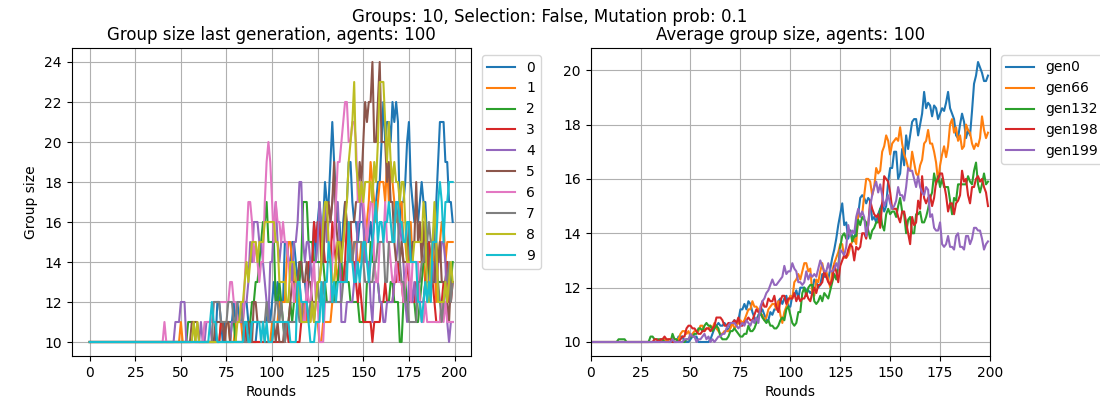
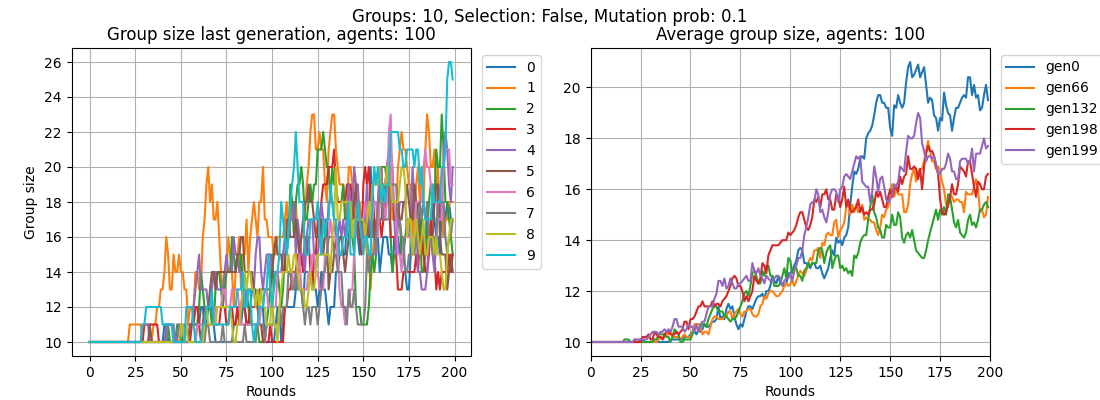
finalised simulation V1, new folder for sim_v2

diff --git a/Sim_V1/__main__.py b/Sim_V1/__main__.py
@@ -1,69 +1,103 @@
 # this is the main python code which you should run from terminal
 
 ##TODO
-# - 5% geen kinderen —> is na reproduce elke groep nog gevuld?
 # - Maximaal aantal groepen voor 1 agent 
 
 import argparse
 
 from Agent import Agent
-from helpers import select_fittest, reproduce
+from helpers import select_fittest, reproduce, split_to_groups
 
 import numpy as np
 import random
 
 from matplotlib import pyplot as plt
 
-SELECTION = True
+SELECTION = False
 GROUP_REJECTION = .2
 MUTATION_PROB = .1
 
 def socialize(social_agent, out_group, population):
     # print()
-    # print(f"{social_agent.name} wants to be prosocial, group: {social_agent.groups[0]}")
+    # print(f"{social_agent.name} wants to be outgroup social and belongs to group: {social_agent.groups[0]}")
 
-    
     if out_group:
         #-- the other agents can not be in any of the groups that the social agent is part of. 
+
+        social_agent.social_preference = 2 #-- out group preference
 
         #-- groups agent 1= [1,2]      agent 2= [3, 5, 2]      agent 3= [3,4,5]
         other_agents = [agent for agent in population if not any(group_number in agent.groups for group_number in social_agent.groups) and agent.available]
         # print(f'others: {[(a.name, a.groups) for a in other_agents]}')
+        
         if other_agents:
             #-- there must be some agents out group before you can socialize with them 
             other = random.choice(other_agents)    
             
-            # print(f"out group socializing agent {social_agent.name} with {other.name} from group: {other.groups[0]}")
+            # print(f"out group socializing agent: {social_agent.name} with agent: {other.name} from group: {other.groups[0]}")
 
-            social_agent.available = False
-            other.available = False
+            if random.uniform(0,1) < other.pro_social or other.social_preference == 2:
+                #-- the other agent also wants to socialize out group
 
-            #-- here agent.groups[0] is the first element of the groups where agent belongs to. Index 0 is the group which it is born into. 
-            social_agent.history[other.groups[0]] = social_agent.history[other.groups[0]] + 1 if other.groups[0] in social_agent.history else 1
-            other.history[social_agent.groups[0]] = other.history[social_agent.groups[0]] + 1 if social_agent.groups[0] in other.history else 1
+                # print(f'Agent: {other.name} accepts')
+
+                other.social_preference = 2 
+
+                social_agent.available = False
+                other.available = False
+
+                #-- here agent.groups[0] is the first element of the groups where agent belongs to. Index 0 is the group which it is born into. 
+                social_agent.history[other.groups[0]] = social_agent.history[other.groups[0]] + 1 if other.groups[0] in social_agent.history else 1
+                other.history[social_agent.groups[0]] = other.history[social_agent.groups[0]] + 1 if social_agent.groups[0] in other.history else 1
+            
+            else:
+                #-- the other agent wants to socialize in group
+
+                # print(f'Agent: {other.name} rejects')
+
+                other.social_preference = 1
+
+
+            
 
     else: 
         #-- an agent plays save, and communicates with in group members. 
+
+        social_agent.social_preference = 1 #-- out group preference
 
         other_agents = [agent for agent in population if any(group_number in social_agent.groups for group_number in agent.groups) and agent is not social_agent and agent.available]
         # print(f'others: {[(a.name, a.groups) for a in other_agents]}')
         if other_agents:
             other = random.choice(other_agents)
 
-            # print(f"in group socializing agent {social_agent.name} with {other.name} from group: {other.groups[0]}")
+            # print(f"in group socializing agent: {social_agent.name} with agent: {other.name} from group: {other.groups[0]}")
 
-            social_agent.available = False
-            other.available = False
-            
-            #-- here agent.groups[0] is the first element of the groups where agent belongs to. Index 0 is the group which it is born into. 
-            social_agent.history[other.groups[0]] = social_agent.history[other.groups[0]] + 1 if other.groups[0] in social_agent.history else 1
-            other.history[social_agent.groups[0]] = other.history[social_agent.groups[0]] + 1 if social_agent.groups[0] in other.history else 1
+            if random.uniform(0,1) < other.pro_social or other.social_preference == 1:
+                #-- the other agent also wants to socialize in group
+                # print(f'Agent: {other.name} accepts')
+
+                social_agent.available = False
+                other.available = False
+
+                other.social_preference = 1
+                
+                #-- here agent.groups[0] is the first element of the groups where agent belongs to. Index 0 is the group which it is born into. 
+                social_agent.history[other.groups[0]] = social_agent.history[other.groups[0]] + 1 if other.groups[0] in social_agent.history else 1
+                other.history[social_agent.groups[0]] = other.history[social_agent.groups[0]] + 1 if social_agent.groups[0] in other.history else 1
+
+            else:
+                #-- the other agent wants to socialize out group
+
+                # print(f'Agent: {other.name} rejects')
+
+                other.social_preference = 2
 
 def regroup_agents(args, population, groups):
     #-- This function checks for each infividual agent to which groups he belongs. He can be added to a group, stay in his groups or be removed from one
 
     for agent in population:
         added = False
+        agent.social_preference = 0
 
         for key in agent.history:
             group_acceptance = len(groups[key]) / 2 #-- The number of agents of a group should you have spoken before you get accepted into a group 
@@ -83,63 +117,30 @@ def regroup_agents(args, population, groups):
                 agent.groups.remove(remove_group) #-- remove from agent's personal list
                 del agent.history[remove_group] #-- remove from agent's history
 
-
-def split_to_groups(args, population):
-    groups = {}
-    for agent in population:
-        for group in agent.groups:
-            if group in groups.keys():
-                groups[group].append(agent)
-            else:
-                    groups[group] = [agent]    
-
-    return groups
-
-# def check_groups(args, population, groups):
-    
-#     # print(np.append(groups[0], population[0]))
-#     for agent in population:
-#         added = False
-        
-#         for key in agent.history:
-#             # print(agent.name, key, len(groups[key]))
-#             group_acceptance = len(groups[key]) / 2 #-- The number of agents of a group should you have spoken before you get accepted into a group 
-#             if agent.history[key] >= group_acceptance and key not in agent.groups:
-#                 agent.groups.append(key) #-- add to agent's personal list
-#                 groups[key].append(agent) #-- add to general group list
-#                 added = True    
-        
-#         #-- This can be done quicker with random.choice
-#         #-- you can not become rejected from your innate group
-#         new_groups = [group for group in agent.groups[1:] if agent.history[group] >= group_acceptance]
-#         if new_groups and not added: #-- can only be rejected if you are not adding new groups
-#             if random.uniform(0,1) <= GROUP_REJECTION:
-#                 #-- an agent is deleted from a random group
-#                 remove_group = random.choice(new_groups) 
-
-#                 agent.groups.remove(remove_group) #-- remove from agent's personal list
-#                 del agent.history[remove_group] #-- remove from agent's history
-
-#                 groups[remove_group].remove(agent) #-- remove from general group list
-
-#     # return groups
-
 def run_round(args, population, groups):
-    #-- runs a single round where agents can engage with each other. 
+    #-- runs a single round where agents can engage with each other.     
     for agent in population:
         if agent.available: #-- an agents can only socialize when he is not already socializing. 
+            
             # print([(a.name, a.available) for a in population])
-            if random.uniform(0,1) < agent.pro_social:
+            if random.uniform(0,1) < agent.pro_social or agent.social_preference == 2:
                 #-- socialize out group
+                # print(f'Out group ---- agent: {agent.name} preference: {agent.social_preference}')
+
                 socialize(social_agent = agent, out_group = True, population = population)
             else:
                 #-- socialize in group
+                # print(f'In group ---- agent: {agent.name} preference: {agent.social_preference}')
+
                 socialize(social_agent = agent, out_group = False, population = population)
     
+        # print([(a.name, a.social_preference) for a in population])
+        # print("--------")
+        # print()
     regroup_agents(args, population, groups) #-- checks for each agent their INTERNAL history and updates to which groups he belongs
     groups = split_to_groups(args, population) #-- checks the GENERAL groups in the population
     # print()
-    # print([(a.name, a.history, a.groups) for a in population])
+    
 
     # check_groups(args, population, groups)
     
@@ -169,40 +170,6 @@ def generate_population(args, new_phenotypes, new_sim):
 
         # print([a.groups for a in population])
         groups = split_to_groups(args, population)
-        
-    
-
-
-
-    # if new_sim:
-    #     #-- first sim
-    #     groups = np.split(np.array(population), args.ngroups)
-    #     groups = np.array(groups).tolist()
-
-    #     for i, group in enumerate(groups):
-    #         for agent in group:
-    #             agent.groups.append(i)
-
-    # else:
-    #     #-- not first sim
-    #     groups_phenotypes, ps_phenotypes = list(zip(*new_phenotypes))
-
-    #     for i, agent in enumerate(population):
-    #         #-- assign the phenotypes to the agents
-    #         agent.pro_social = ps_phenotypes[i]
-    #         agent.groups.append(groups_phenotypes[i])
-    #     # print([(a.groups[0], a.pro_social) for a in population])
-
-    #     sorted_population = sorted(population, key=lambda x: x.groups[0])
-    #     # print(f'new population: {[(a.groups[0], a.pro_social) for a in sorted_population]}')
-
-    #     groups = np.split(np.array(sorted_population), args.ngroups)
-    #     groups = np.array(groups).tolist()
-    
-    
-
-    
-    # print(f'starting group sizes: {[len(groups[key]) for key in groups]}')
 
     return population, groups    
 
@@ -212,7 +179,7 @@ def run_generation(args, population, groups, selection):
     
     for r in range(args.nrounds):
         #-- run the social rounds
-        # print(f"round {r}")
+        # print(f"round: {r}")
         gen_groups = run_round(args, population, groups)
         
         for key in gen_groups:
@@ -267,6 +234,8 @@ def run_all(args):
         if num_gen % int(args.generations/3) == 0 or num_gen == args.generations - 1:
             gen_numbers.append(num_gen)
             all_generations_group_sizes.append(np.mean(active_group_sizes, axis=0))
+
+            # print([a.pro_social for a in population])
     
     #-- plotting the results
     fig, axs = plt.subplots(1,2, figsize=(11, 4))
@@ -293,7 +262,7 @@ def run_all(args):
     #-- postprocess and save plots
     fig.suptitle(f'Groups: {args.ngroups}, Selection: {SELECTION}, Mutation prob: {MUTATION_PROB}')
     plt.subplots_adjust(left=0.065, wspace= 0.30)
-    plt.savefig(f'/Users/Tom/Desktop/Thesis/Sim_V1/output/14-05-{args.nagents}-{args.ngroups}-{args.nrounds}-{args.generations}-{SELECTION}')
+    plt.savefig(f'/Users/Tom/Desktop/Thesis/Sim_V1/output/24-05-{args.nagents}-{args.ngroups}-{args.nrounds}-{args.generations}-{SELECTION}')
     plt.show()
     
 
@@ -305,7 +274,7 @@ def main(args = None):
     parser.add_argument('--nagents', '-na', type = int, dest = 'nagents', help = 'The starting population size', default = 10)
     parser.add_argument('--prosocial', '-ps', type = float, dest = 'prosocial', help = 'The starting pro sociality chance for each agent', default = 0.2)
     parser.add_argument('--ngroups', '-ng', type = int, dest = 'ngroups', help = 'The starting number of groups', default = 5)
-    parser.add_argument('--generations', '-g', type = int, dest = 'generations', help ='The number of generations', default = 2)
+    parser.add_argument('--generations', '-g', type = int, dest = 'generations', help ='The number of generations', default = 3)
     parser.add_argument('--nrounds', '-nr', type = int, dest = 'nrounds', help ='The number rounds for each generation', default = 5)
     args = parser.parse_args()
         

diff --git a/Sim_V1/helpers.py b/Sim_V1/helpers.py
@@ -2,6 +2,7 @@
 
 import math
 import random
+import numpy as np
 
 def select_fittest(fitness_list, perc):
     l = len(fitness_list)
@@ -13,9 +14,20 @@ def reproduce(agent_list, mut_prob):
     for agent in agent_list:
         if random.uniform(0,1) <= mut_prob:
             mutation_rate = random.choice([0.05, -0.05])
-            new_pro_social_probability = agent.pro_social + mutation_rate
+            new_pro_social_probability = np.clip(agent.pro_social + mutation_rate, 0.01, 0.99) #-- make sure that the pro sociality is not below 0.01 and above 0.99
         # new_go_probability = agent.gossip_prob * (1 + (mutation_rate * direction))
             new_pro_social_list.append((agent.groups[0], new_pro_social_probability))
         else:
                 new_pro_social_list.append((agent.groups[0], agent.pro_social))
     return new_pro_social_list
+
+def split_to_groups(args, population):
+    groups = {}
+    for agent in population:
+        for group in agent.groups:
+            if group in groups.keys():
+                groups[group].append(agent)
+            else:
+                    groups[group] = [agent]    
+
+    return groups    

diff --git a/Sim_V1/Agent.py b/Sim_V1/Agent.py
@@ -10,6 +10,8 @@ class Agent:
         self.history = {}
         self.groups = [_groups]
         self.available = True
+        self.social_preference = 0 #-- 0 undecided, 1 in group, 2 out group 
+
         self.social_fitness = 0
 
     def calc_info_fitness(self):
